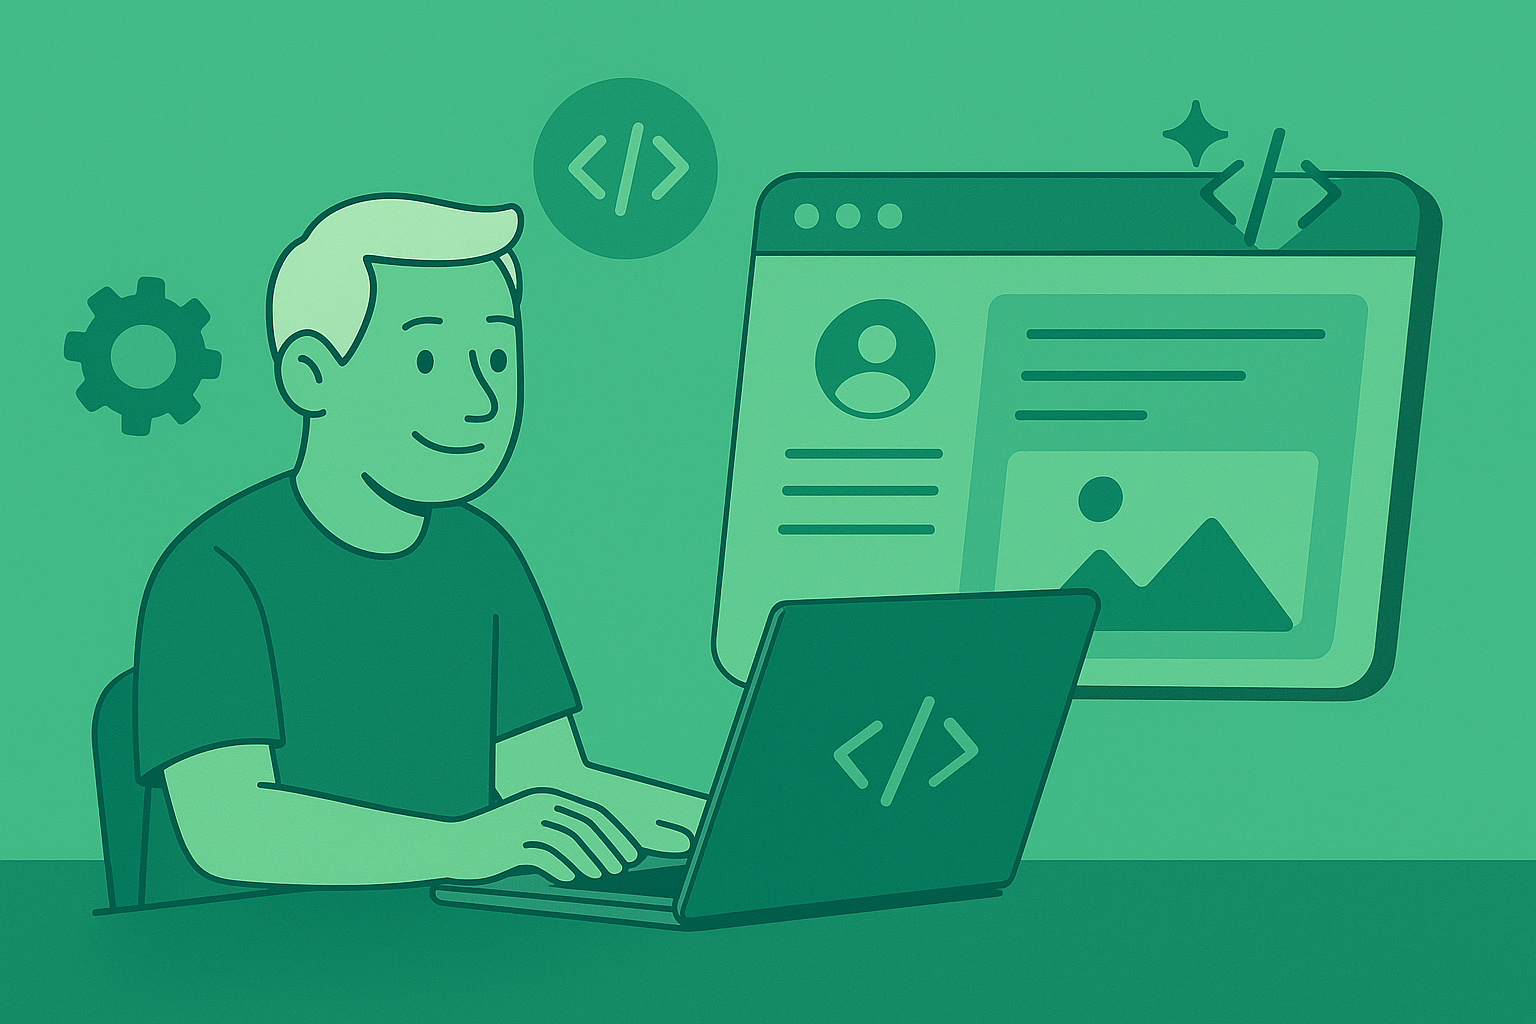
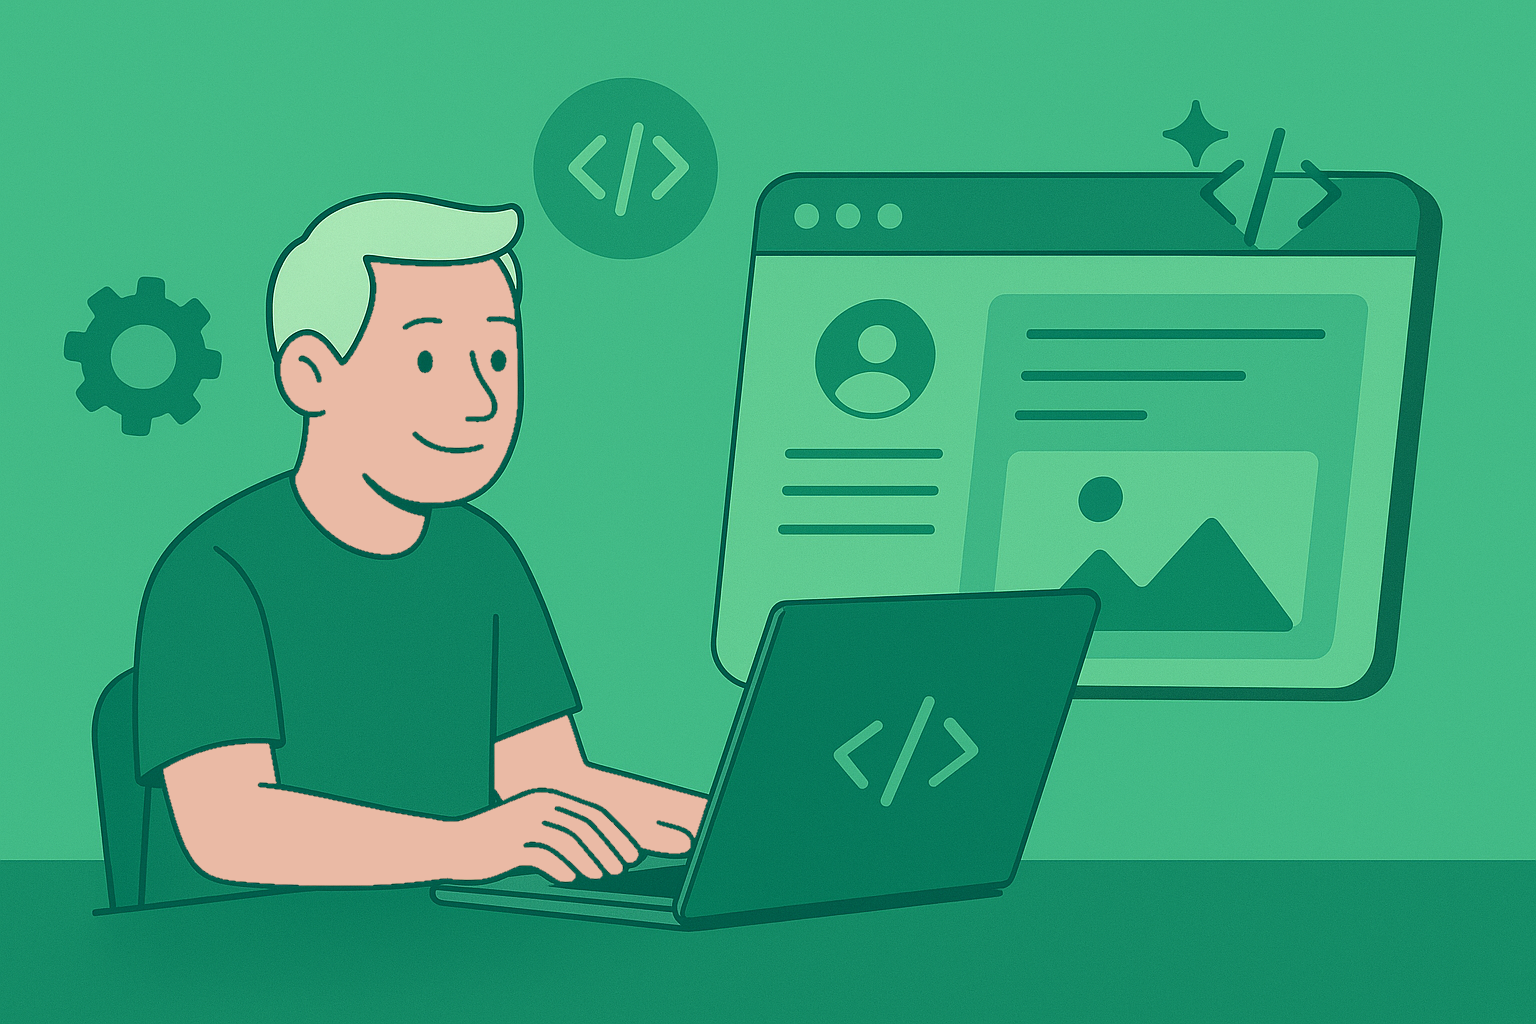
💄 Update ui

Changed region(s): [[0.0938, 0.6875, 0.4688, 0.875], [0.1562, 0.25, 0.3438, 0.5625]]

diff --git a/src/view/home/home-section/HomeSection.tsx b/src/view/home/home-section/HomeSection.tsx
@@ -27,10 +27,7 @@ const HomeSection: FC<HomeSectionProps> = ({ headline, text, style, route, butto
                 {text}
                 {typeof route === 'string' && typeof buttonText === 'string' && (
                     <div className="home-section__content__button">
-                        <Button
-                            onClick={handleClick}
-                            type={ButtonType.Outline}
-                            style={{ fontSize: '1.125rem' }}>
+                        <Button onClick={handleClick} type={ButtonType.Outline}>
                             {buttonText}
                         </Button>
                     </div>
